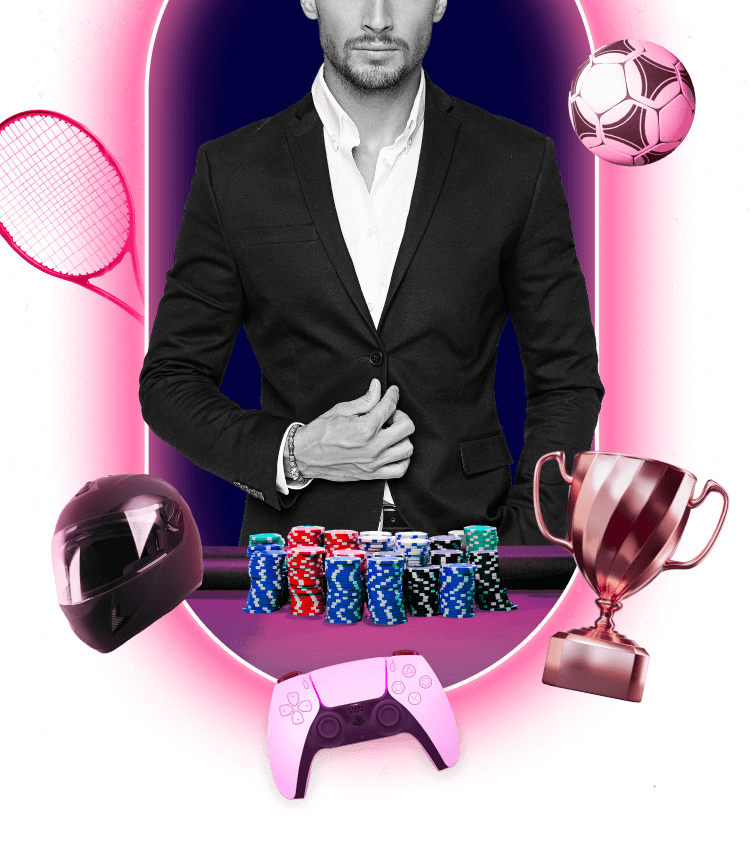
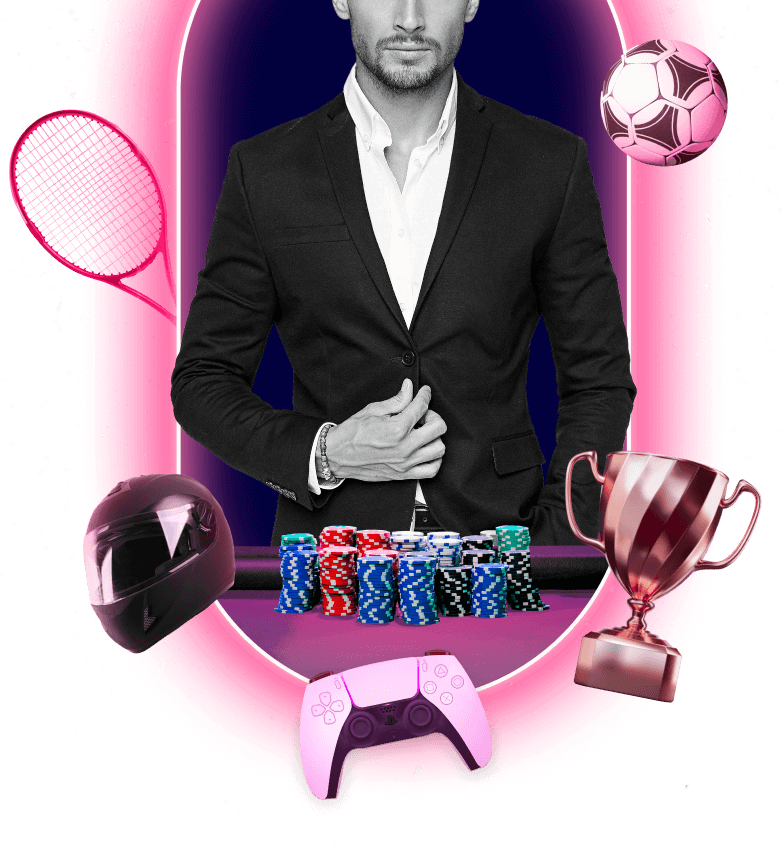
add new welcome image

Changed region(s): [[0.0, 0.0, 0.9813, 0.9343]]

diff --git a/build/css/main.css b/build/css/main.css
@@ -1,1 +1,1 @@
-@font-face{font-family:SuisseIntl-Medium;src:url(../fonts/SuisseIntl/SuisseIntl-Medium.woff);font-weight:500}@font-face{font-family:SuisseIntl-SemiBold;src:url(../fonts/SuisseIntl/SuisseIntl-SemiBold.woff);font-weight:600}@font-face{font-family:SuisseIntl-Bold;src:url(../fonts/SuisseIntl/SuisseIntl-Bold.woff);font-weight:700}@font-face{font-family:WulkanDisplay;src:url(../fonts/WulkanDisplay/WulkanDisplay-SemiBoldItalic.woff)}html{height:100%}body{margin:0;height:100%}a{text-decoration:none}ul{list-style:none}h1,h2,h3,li,p,ul{padding:0;margin:0}*{-webkit-box-sizing:border-box;box-sizing:border-box}.overflow{overflow-x:hidden!important}body{background:#00003d}body img{max-width:100%;height:auto}.fav__page{background:#00003d;-webkit-tap-highlight-color:transparent}.fav__page.overflow{overflow:hidden}.welcome{overflow:hidden;background:#00003d url(../img/bg-welcom-desc.jpg) no-repeat center/100% 100%}@media screen and (max-width:1024px){.welcome{background:#00003d url(../img/bg-welcom-tab.jpg) no-repeat center/100% 100%}}@media screen and (max-width:550px){.welcome{background:#00003d url(../img/bg-welcom-mob.jpg) no-repeat center/100% 100%}}.welcome__cloud{display:block;pointer-events:none;content:"";overflow-x:hidden;position:absolute;width:1000%;left:-900%;background:url(../img/cloud-top.png) repeat-x top/contain;top:0;height:60px;-webkit-animation:500s infinite ease animCloud;animation:500s infinite ease animCloud}@media screen and (max-width:700px){.welcome__cloud{-webkit-animation:none;animation:none}}.welcome__container{max-width:1305px;margin:0 auto;padding:0}.welcome__row{display:-webkit-box;display:-ms-flexbox;display:flex;-webkit-box-align:start;-ms-flex-align:start;align-items:flex-start;-webkit-box-pack:justify;-ms-flex-pack:justify;justify-content:space-between}.welcome__info{padding:270px 0 0 0;margin:0 20px 0 0;position:relative;left:40px;min-width:390px}.welcome__title{position:absolute;top:50px;left:0;font-family:SuisseIntl-SemiBold,sans-serif;max-width:560px;min-width:560px;text-transform:uppercase;margin:0 0 30px 0;color:#ededed;font-size:84px;line-height:94px}.welcome__title span{font-family:WulkanDisplay,sans-serif;color:#ff267e}.welcome__subtitle{font-family:SuisseIntl-SemiBold,sans-serif;color:#ff267e;font-size:40px;line-height:45px;margin:0 0 10px 0;letter-spacing:.02em;text-transform:uppercase}.welcome__text{font-family:SuisseIntl-Medium,sans-serif;color:#e8e8e8;max-width:415px;font-size:14px;line-height:28px;letter-spacing:.01em;margin:0 0 30px 0}.welcome__link{display:inline-block;font-family:SuisseIntl-Medium,sans-serif;color:#00003d;font-size:20px;line-height:24px;padding:19px 95px 17px;border-radius:4px;text-transform:uppercase;background:#05c489;-webkit-transition:background-color .3s ease;-o-transition:background-color .3s ease;transition:background-color .3s ease}.welcome__link:hover{background:#05b37c}.welcome__image{max-width:880px;position:relative;right:-140px}.prize{margin-top:-40px;padding:10px 0 60px;background:#00003d;position:relative;z-index:3}.prize__container{max-width:1305px;margin:0 auto;padding:0}.prize__title{position:relative;left:40px;font-family:WulkanDisplay,sans-serif;color:#ff267e;font-size:60px;line-height:77px;letter-spacing:.02em;text-transform:uppercase;margin:0 0 10px 0}.prize__list{max-width:1160px;padding:0 15px;display:-webkit-box;display:-ms-flexbox;display:flex;position:relative;-webkit-box-pack:justify;-ms-flex-pack:justify;justify-content:space-between;margin:0 auto 55px auto}.prize__item{position:relative}.prize__item::before{content:"";position:absolute;top:0;left:50%;-webkit-transform:translateX(-50%);-ms-transform:translateX(-50%);transform:translateX(-50%);width:520px;height:220px;z-index:0;background:url(../img/prize-back.png) no-repeat 0 0/contain}.prize__item:nth-child(1) .prize__item-wrap::after{content:"";position:absolute;z-index:4;width:129px;height:93px;background:url(../img/prize1.png) no-repeat 0 0/contain;top:60px;right:-10px}.prize__item:nth-child(2) .prize__item-wrap::after{content:"";position:absolute;z-index:4;width:82px;height:82px;background:url(../img/prize2.png) no-repeat 0 0/contain;top:50px;right:30px}.prize__item:nth-child(3) .prize__item-wrap::after{content:"";position:absolute;z-index:4;width:130px;height:120px;background:url(../img/prize3.png) no-repeat 0 0/contain;top:78px;right:-10px}.prize__item-wrap{position:relative;z-index:3;display:-webkit-box;display:-ms-flexbox;display:flex;-webkit-box-align:center;-ms-flex-align:center;align-items:center;-webkit-box-pack:center;-ms-flex-pack:center;justify-content:center;min-width:268px;margin:0 0 20px 0;height:220px;background:url(../img/prize-bg.png) no-repeat 0 0/contain}.prize__item-number{margin-top:80px;margin-left:-30px;font-family:WulkanDisplay,sans-serif;font-style:normal;font-size:80px;line-height:93px;color:#ededed}.prize__item-text{font-family:SuisseIntl-SemiBold,sans-serif;font-size:20px;line-height:26px;color:#e8e8e8;letter-spacing:.04em;text-transform:uppercase;max-width:300px;text-align:center;margin:0 auto}.prize__drop{max-width:900px;width:calc(100% - 80px);margin:0 auto 0;border:none;cursor:pointer;outline:0!important;background:#33084a;position:relative;border-radius:4px;text-align:left}.prize__drop:after,.prize__drop:before{content:"";background:#ff267e;width:4px;height:18px;display:block;position:absolute;top:32px}.prize__drop[open]:before{-webkit-transform:rotate(-45deg);-ms-transform:rotate(-45deg);transform:rotate(-45deg)}.prize__drop[open]:after{-webkit-transform:rotate(45deg);-ms-transform:rotate(45deg);transform:rotate(45deg)}.prize__drop:before{right:33px;-webkit-transform:rotate(45deg);-ms-transform:rotate(45deg);transform:rotate(45deg)}.prize__drop:after{-webkit-transform:rotate(-45deg);-ms-transform:rotate(-45deg);transform:rotate(-45deg);right:43px}.prize__drop-title{font-family:SuisseIntl-Medium,sans-serif;font-size:24px;line-height:24px;color:#ededed;text-transform:uppercase;letter-spacing:.02em;padding:27px 26px 25px;position:relative}.prize__drop summary::-webkit-details-marker{display:none}.prize__drop>summary{list-style:none}.prize__drop-txt{font-family:SuisseIntl-Medium,sans-serif;font-size:14px;line-height:28px;color:#ededed;letter-spacing:.02em;padding:30px;background:#33084a;border-top:1px solid #ff267e}.prize__drop-txt span{display:block;padding-left:15px}.prize__drop-txt .retreat1{padding-left:30px}.tableResults__drop{max-width:900px;width:calc(100% - 80px);margin:0 auto 0;background:#33084a;cursor:pointer;outline:0!important;position:relative;border-radius:4px;text-align:left}.tableResults__drop:after,.tableResults__drop:before{content:"";background:#ff267e;width:4px;height:18px;display:block;position:absolute;top:32px}.tableResults__drop[open]:before{-webkit-transform:rotate(-45deg);-ms-transform:rotate(-45deg);transform:rotate(-45deg)}.tableResults__drop[open]:after{-webkit-transform:rotate(45deg);-ms-transform:rotate(45deg);transform:rotate(45deg)}.tableResults__drop:before{right:33px;-webkit-transform:rotate(45deg);-ms-transform:rotate(45deg);transform:rotate(45deg)}.tableResults__drop:after{-webkit-transform:rotate(-45deg);-ms-transform:rotate(-45deg);transform:rotate(-45deg);right:43px}.tableResults__drop-title{font-family:SuisseIntl-Medium,sans-serif;font-size:24px;line-height:24px;color:#ededed;text-transform:uppercase;letter-spacing:.02em;padding:27px 26px 25px;position:relative}.tableResults__drop summary::-webkit-details-marker{display:none}.tableResults__drop>summary{list-style:none}.tableResults__drop-txt{font-family:SuisseIntl-Medium,sans-serif;font-size:14px;line-height:28px;color:#ededed;letter-spacing:.02em;padding:30px;background:#33084a;border-top:1px solid #ff267e}.tableResults__drop-txt p{font-family:SuisseIntl-Medium,sans-serif;font-size:14px;line-height:28px}.tableResults__drop-txt span{display:block;padding-left:15px}.tableResults__drop-txt .retreat1{padding-left:30px}.tableResults{background:#00003d;text-align:center;position:relative;z-index:3}.tableResults::before{pointer-events:none;content:"";position:absolute;width:100vw;min-height:180%;left:0;z-index:0;top:-42%;background:url(../img/bg-table-desc.svg) no-repeat center/cover}@media screen and (max-width:1024px){.tableResults::before{background:url(../img/bg-table-table.svg) no-repeat center/cover;top:-4%;min-height:40%}}.tableResults__container{max-width:1305px;margin:0 auto;padding:0}.tableResults__title{position:relative;z-index:3;font-family:SuisseIntl-Bold,sans-serif;font-size:50px;line-height:50px;color:#ededed;text-transform:uppercase;text-align:center;letter-spacing:.01em;margin:0 0 30px 0}.tableResults__wrap{margin:0 auto 40px auto;max-width:1004px;padding:0 15px;text-align:left;position:relative}.tableResults__head{background:#00003d;border:2px solid #ff267e;-webkit-box-shadow:0 0 30px #ff267e,inset 0 0 30px #ff267e;box-shadow:0 0 30px #ff267e,inset 0 0 30px #ff267e;border-radius:4px;margin-right:10px;margin-bottom:25px;position:relative}.tableResults__head-list{display:-webkit-box;display:-ms-flexbox;display:flex}.tableResults__head-col{font-family:SuisseIntl-SemiBold,sans-serif;font-size:20px;line-height:20px;color:#ededed;text-transform:uppercase;letter-spacing:.04em;padding:20px 20px 17px 35px}.tableResults__head-col:nth-child(1){width:19%;padding:20px 20px 17px 24px}.tableResults__head-col:nth-child(2){width:25%;padding:20px 20px 17px 24px}.tableResults__head-col:nth-child(3){width:21%}.tableResults__head-col:nth-child(4){width:47%}.tableResults__body{overflow-y:scroll;padding-right:6px;position:relative;max-height:495px;font-size:18px;background:0 0}.tableResults__body::-webkit-scrollbar{width:4px;height:80%;background:rgba(51,8,60,.5)}.tableResults__body::-webkit-scrollbar-thumb{background-color:#ff267e;width:4px}.tableResults__body-col{font-family:SuisseIntl-SemiBold,sans-serif;width:25%;margin-right:8px;letter-spacing:.04em;display:-webkit-box;display:-ms-flexbox;display:flex;-webkit-box-align:center;-ms-flex-align:center;align-items:center;padding:22px 20px 18px 24px;background:#33084a;color:#ededed;text-align:start}.tableResults__body-col span{font-family:SuisseIntl-SemiBold,sans-serif}.tableResults__body-col:nth-child(1){width:19%;padding:22px 20px 18px 24px}.tableResults__body-col:nth-child(2){width:25%}.tableResults__body-col:nth-child(3){width:20%}.tableResults__body-col:nth-child(4){width:46%;margin-right:0}.tableResults__row{word-break:break-all;display:-webkit-box;display:-ms-flexbox;display:flex;margin-bottom:8px}.tableResults__row:last-child{margin-bottom:0}.tableResults .place1 .tableResults__body-col:nth-child(1):after,.tableResults .place2 .tableResults__body-col:nth-child(1):after,.tableResults .place3 .tableResults__body-col:nth-child(1):after{content:"";width:31px;height:24px;display:inline-block;margin:-4px 0 0 14px}.tableResults .place1 .tableResults__body-col:nth-child(1):after{background:url(../img/place-icon-1.svg) no-repeat 0 0/contain}.tableResults .place2 .tableResults__body-col:nth-child(1):after{background:url(../img/place-icon-2.svg) no-repeat 0 0/contain}.tableResults .place3 .tableResults__body-col:nth-child(1):after{background:url(../img/place-icon-3.svg) no-repeat 0 0/contain}.tableResults__drop{display:inline-block;vertical-align:middle}.footer{padding:123px 0 90px;background:url(../img/bg-footer.jpg) no-repeat 50% 0/cover;position:relative}.footer::after{content:"";position:absolute;z-index:0;width:530px;height:450px;left:-15px;bottom:0;background:url(../img/left-footer.png) no-repeat center/contain}.footer::before{content:"";position:absolute;z-index:0;width:530px;height:450px;right:-15px;bottom:0;background:url(../img/right-footer.png) no-repeat center/contain}.footer__cloud{position:absolute;width:1000%;height:90px;bottom:0;left:-900%;background:url(../img/cloud-desc.png) repeat-x bottom/contain;-webkit-animation:500s infinite ease animCloud;animation:500s infinite ease animCloud}@media screen and (max-width:1024px){.footer__cloud{background:url(../img/cloud-tab.png) repeat-x bottom/contain}}@media screen and (max-width:550px){.footer__cloud{background:0 0;display:none}}.footer__container{max-width:660px;padding:0 15px;margin:0 auto}.footer__row{position:relative;z-index:3;display:-webkit-box;display:-ms-flexbox;display:flex;-webkit-box-orient:vertical;-webkit-box-direction:normal;-ms-flex-direction:column;flex-direction:column;-webkit-box-align:center;-ms-flex-align:center;align-items:center}.footer__title{font-family:SuisseIntl-SemiBold,sans-serif;text-align:center;color:#ededed;font-size:60px;line-height:77px;text-transform:uppercase;margin:0 0 15px 0}.footer__title span{font-family:WulkanDisplay,sans-serif;color:#ff267e}.footer__text{font-family:SuisseIntl-Medium,sans-serif;text-align:center;font-size:14px;line-height:28px;color:#e8e8e8;margin:0 0 30px 0}.footer__link{display:inline-block;font-family:SuisseIntl-Medium,sans-serif;color:#00003d;font-size:20px;line-height:24px;padding:19px 95px 17px;border-radius:4px;text-transform:uppercase;background:#05c489;-webkit-transition:background-color .3s ease;-o-transition:background-color .3s ease;transition:background-color .3s ease}.footer__link:hover{background:#05b37c}@-webkit-keyframes animCloud{0%{background-position:0 0}100%{background-position:100% 0}}@keyframes animCloud{0%{background-position:0 0}100%{background-position:100% 0}}@media screen and (max-width:1270px){.welcome__image{right:-180px;min-width:66%}.welcome__info{min-width:390px}}@media screen and (max-width:1150px){.welcome__image{right:-120px;min-width:66%}.welcome__title{font-size:64px;line-height:74px;max-width:273px;min-width:376px}.welcome__info{padding:227px 0 0 0}}@media screen and (max-width:1050px){.welcome__image{right:-54px;min-width:66%}}@media screen and (max-width:1024px){.welcome__title{font-size:60px;line-height:70px;margin:0 0 25px 0;-webkit-box-ordinal-group:2;-ms-flex-order:1;order:1;max-width:272px;min-width:272px}.welcome__link{-webkit-box-ordinal-group:3;-ms-flex-order:2;order:2;margin:0 0 30px 0;-ms-flex-item-align:start;align-self:flex-start}.welcome__subtitle{-webkit-box-ordinal-group:4;-ms-flex-order:3;order:3;font-size:30px;line-height:30px;margin:0 0 8px 0}.welcome__text{-webkit-box-ordinal-group:5;-ms-flex-order:4;order:4;margin:0}.welcome__image{min-width:62%;right:20px}.welcome__info{padding:276px 0 0 0;min-width:327px;display:-webkit-box;display:-ms-flexbox;display:flex;-webkit-box-orient:vertical;-webkit-box-direction:normal;-ms-flex-direction:column;flex-direction:column}}@media screen and (max-width:890px){.welcome__image{min-width:62%;right:30px}}@media screen and (max-width:790px){.welcome__info{left:20px;min-width:354px}.welcome__image{min-width:62%;right:80px}}@media screen and (max-width:700px){.welcome__row{-webkit-box-orient:vertical;-webkit-box-direction:reverse;-ms-flex-direction:column-reverse;flex-direction:column-reverse}.welcome__image{min-width:auto;right:23px}.welcome__info{padding:0;margin-top:-47px;z-index:3;left:0;min-width:auto;width:100%;max-width:100%}.welcome__title{position:static;padding:0 15px;max-width:515px;text-align:center;margin:0 auto 30px auto}.welcome__subtitle{text-align:center;font-size:32px;padding:0 15px;line-height:40px;margin:0 auto 10px auto}.welcome__link{font-size:20px;line-height:24px;margin:0 auto 25px auto;width:70%;padding:19px 15px 17px;text-align:center}.welcome__text{padding:0 15px;max-width:515px;text-align:center;margin:0 auto 0 auto}}@media screen and (max-width:550px){.welcome::before{content:"";position:absolute;width:100%;height:1100px;background:url(../img/blur-mob.png) no-repeat center/100% 100%;z-index:10}.welcome__image{right:0;position:relative;z-index:12}.welcome__info{margin-top:-30px;position:relative;z-index:12}.welcome__title{max-width:390px;font-size:42px;line-height:50px;margin:0 auto 7px auto}}@media screen and (max-width:430px){.welcome__link{width:calc(100% - 30px)}}@media screen and (max-width:1180px){.prize{margin-top:0}.prize__list{left:0;display:grid;grid-template-columns:auto auto;justify-items:center;-webkit-box-pack:center;-ms-flex-pack:center;justify-content:center;-webkit-box-align:center;-ms-flex-align:center;align-items:center;-webkit-column-gap:120px;-moz-column-gap:120px;column-gap:120px;row-gap:60px}.prize__item{display:-webkit-box;display:-ms-flexbox;display:flex;-webkit-box-orient:vertical;-webkit-box-direction:normal;-ms-flex-direction:column;flex-direction:column;-webkit-box-pack:center;-ms-flex-pack:center;justify-content:center;-webkit-box-align:center;-ms-flex-align:center;align-items:center}.prize__item-number{margin-left:0}.prize__item:nth-child(1){grid-column:1/2;grid-row:1/2}.prize__item:nth-child(1) .prize__item-wrap::after{right:-40px}.prize__item:nth-child(2){grid-column:2/3;grid-row:1/2}.prize__item:nth-child(2) .prize__item-wrap::after{right:5px;width:73px;top:74px}.prize__item:nth-child(3){grid-column:1/3;grid-row:2/3}.prize__item:nth-child(3) .prize__item-wrap::after{top:53px;right:-27px;width:118px;height:110px}}@media screen and (max-width:1024px){.prize__title{font-size:40px;line-height:60px;margin:0 0 5px 0}}@media screen and (max-width:830px){.prize{padding:40px 0 60px}}@media screen and (max-width:790px){.prize__title{left:20px}}@media screen and (max-width:700px){.prize{padding:35px 0 60px}.prize__drop{width:calc(100% - 30px)}.prize__drop:after,.prize__drop:before{width:2px;height:12px;top:23px}.prize__drop:before{right:18px}.prize__drop:after{right:26px}.prize__drop-title{font-size:18px;line-height:18px;padding:20px 20px 18px}.prize__drop-title:after{right:45px}.prize__drop-txt{padding:20px}.prize__title{left:0;padding:0 15px;text-align:center;margin:0}.prize__list{-webkit-column-gap:0;-moz-column-gap:0;column-gap:0;row-gap:10px;grid-template-columns:100%}.prize__item:nth-child(1){grid-column:1/2;grid-row:1/2}.prize__item:nth-child(2){grid-column:1/2;grid-row:2/3}.prize__item:nth-child(3){grid-column:1/2;grid-row:3/4}}@media screen and (max-width:940px){.tableResults__title{font-size:36px;line-height:36px}.tableResults__head{-webkit-box-shadow:0 0 20px #ff267e,inset 0 0 20px #ff267e;box-shadow:0 0 20px #ff267e,inset 0 0 20px #ff267e;margin-bottom:10px}.tableResults__head-col{font-size:16px;line-height:16px;padding:14px 20px 12px 35px}.tableResults__head-col:nth-child(1){padding:14px 20px 12px 18px}.tableResults__head-col:nth-child(2){padding:14px 20px 12px 26px}.tableResults__body{font-size:16px;max-height:444px}.tableResults .place1 .tableResults__body-col:nth-child(1):after,.tableResults .place2 .tableResults__body-col:nth-child(1):after,.tableResults .place3 .tableResults__body-col:nth-child(1):after{width:26px;height:20px;margin:-3px 0 0 10px}}@media screen and (max-width:700px){.tableResults__drop{width:calc(100% - 30px)}.tableResults__drop:after,.tableResults__drop:before{width:2px;height:12px;top:23px}.tableResults__drop:before{right:18px}.tableResults__drop:after{right:26px}.tableResults__drop-title{font-size:18px;line-height:18px;padding:20px 20px 18px}.tableResults__drop-title:after{right:45px}.tableResults__drop-txt{padding:20px}.tableResults__head{margin-right:0;margin-bottom:5px;-webkit-box-shadow:0 0 10px #ff267e,inset 0 0 10px #ff267e;box-shadow:0 0 10px #ff267e,inset 0 0 10px #ff267e}.tableResults__head-col{font-size:12px;line-height:12px}.tableResults__head-col:nth-child(1){padding:11px 20px 9px 15px;width:20%}.tableResults__head-col:nth-child(2){padding:11px 20px 9px 10px;width:28%}.tableResults__head-col:nth-child(3){padding:11px 20px 9px 7px;width:22%}.tableResults__head-col:nth-child(4){padding:11px 20px 9px 10px;width:30%}.tableResults__body{font-size:11px;padding-right:0}.tableResults__body::-webkit-scrollbar{background:#33083c}.tableResults__body-col{font-family:SuisseIntl-Bold,sans-serif;margin-right:2px;padding:12px 5px 8px 10px}.tableResults__body-col:nth-child(1){width:20%;padding:12px 5px 8px 20px}.tableResults__body-col:nth-child(2){width:28%;padding:12px 5px 8px 10px}.tableResults__body-col:nth-child(3){width:22%}.tableResults__body-col:nth-child(4){width:30%}.tableResults__row{margin-bottom:2px}.tableResults .place1 .tableResults__body-col:nth-child(1):after,.tableResults .place2 .tableResults__body-col:nth-child(1):after,.tableResults .place3 .tableResults__body-col:nth-child(1):after{width:18px;height:14px;margin:-4px 0 0 6px}}@media screen and (max-width:374px){.tableResults__drop:after,.tableResults__drop:before{top:21px}.tableResults__drop-title{font-size:16px;line-height:16px;padding:18px 15px 16px}.tableResults__title{font-size:30px;line-height:30px}.tableResults__wrap{margin-top:20px}}@media screen and (max-width:1230px){.footer{padding:410px 0 70px;background:url(../img/bg-footer-tab.jpg) no-repeat center/100% 100%}.footer::after,.footer::before{content:none;background:0 0}.footer::before{content:"";left:50%;right:auto;bottom:auto;width:715px;height:372px;top:20px;z-index:1;-webkit-transform:translateX(-50%);-ms-transform:translateX(-50%);transform:translateX(-50%);background:url(../img/footer-center.png) no-repeat center/contain}.footer::after{content:"";left:50%;right:auto;bottom:auto;width:100%;height:100%;top:-170px;z-index:0;-webkit-transform:translateX(-50%);-ms-transform:translateX(-50%);transform:translateX(-50%);background:url(../img/touch-footer.svg) no-repeat center/contain}}@media screen and (max-width:1024px){.footer__title{font-size:50px;line-height:60px;margin:0 0 10px 0}}@media screen and (max-width:720px){.footer{padding:360px 0 70px}.footer::before{width:100%;top:-10px}}@media screen and (max-width:550px){.footer{padding:307px 0 30px;background:url(../img/bg-footer-mob.jpg) no-repeat center/100% 100%}.footer::before{width:100%;top:-30px}.footer::after{content:"";left:50%;right:auto;bottom:auto;width:100%;height:320px;top:10px;z-index:0;-webkit-transform:translateX(-50%);-ms-transform:translateX(-50%);transform:translateX(-50%);background:url(../img/touch-mob.png) no-repeat center/contain}.footer__title{font-size:42px;line-height:50px;-webkit-box-ordinal-group:2;-ms-flex-order:1;order:1}.footer__link{-webkit-box-ordinal-group:3;-ms-flex-order:2;order:2;width:100%;padding:19px 15px 17px;text-align:center;margin:0 0 25px 0}.footer__text{-webkit-box-ordinal-group:4;-ms-flex-order:3;order:3;margin:0}}@media screen and (max-width:466px){.footer{padding:253px 0 30px}.footer::before{top:-60px}.footer::after{top:-20px}}@media screen and (max-width:406px){.footer{padding:215px 0 30px}.footer::before{top:-80px}.footer::after{top:-40px}}@media screen and (max-width:365px){.footer{padding:193px 0 30px}.footer::before{top:-90px}.footer::after{top:-50px}}
+@font-face{font-family:SuisseIntl-Medium;src:url(../fonts/SuisseIntl/SuisseIntl-Medium.woff);font-weight:500}@font-face{font-family:SuisseIntl-SemiBold;src:url(../fonts/SuisseIntl/SuisseIntl-SemiBold.woff);font-weight:600}@font-face{font-family:SuisseIntl-Bold;src:url(../fonts/SuisseIntl/SuisseIntl-Bold.woff);font-weight:700}@font-face{font-family:WulkanDisplay;src:url(../fonts/WulkanDisplay/WulkanDisplay-SemiBoldItalic.woff)}html{height:100%}body{margin:0;height:100%}a{text-decoration:none}ul{list-style:none}h1,h2,h3,li,p,ul{padding:0;margin:0}*{-webkit-box-sizing:border-box;box-sizing:border-box}.overflow{overflow-x:hidden!important}body{background:#00003d}body img{max-width:100%;height:auto}.fav__page{background:#00003d;-webkit-tap-highlight-color:transparent}.fav__page.overflow{overflow:hidden}.welcome{overflow:hidden;background:#00003d url(../img/bg-welcom-desc.jpg) no-repeat center/100% 100%}@media screen and (max-width:1024px){.welcome{background:#00003d url(../img/bg-welcom-tab.jpg) no-repeat center/100% 100%}}@media screen and (max-width:550px){.welcome{background:#00003d url(../img/bg-welcom-mob.jpg) no-repeat center/100% 100%}}.welcome__cloud{display:block;pointer-events:none;content:"";overflow-x:hidden;position:absolute;width:1000%;left:-900%;background:url(../img/cloud-top.png) repeat-x top/contain;top:0;height:60px;-webkit-animation:500s infinite ease animCloud;animation:500s infinite ease animCloud}@media screen and (max-width:700px){.welcome__cloud{-webkit-animation:none;animation:none}}.welcome__container{max-width:1305px;margin:0 auto;padding:0}.welcome__row{display:-webkit-box;display:-ms-flexbox;display:flex;-webkit-box-align:start;-ms-flex-align:start;align-items:flex-start;-webkit-box-pack:justify;-ms-flex-pack:justify;justify-content:space-between}.welcome__info{padding:270px 0 0 0;margin:0 20px 0 0;position:relative;left:40px;min-width:390px}.welcome__title{position:absolute;top:50px;left:0;font-family:SuisseIntl-SemiBold,sans-serif;max-width:560px;min-width:560px;text-transform:uppercase;margin:0 0 30px 0;color:#ededed;font-size:84px;line-height:94px}.welcome__title span{font-family:WulkanDisplay,sans-serif;color:#ff267e}.welcome__subtitle{font-family:SuisseIntl-SemiBold,sans-serif;color:#ff267e;font-size:40px;line-height:45px;margin:0 0 10px 0;letter-spacing:.02em;text-transform:uppercase}.welcome__text{font-family:SuisseIntl-Medium,sans-serif;color:#e8e8e8;max-width:415px;font-size:14px;line-height:28px;letter-spacing:.01em;margin:0 0 30px 0}.welcome__link{display:inline-block;font-family:SuisseIntl-Medium,sans-serif;color:#00003d;font-size:20px;line-height:24px;padding:19px 95px 17px;border-radius:4px;text-transform:uppercase;background:#05c489;-webkit-transition:background-color .3s ease;-o-transition:background-color .3s ease;transition:background-color .3s ease}.welcome__link:hover{background:#05b37c}.welcome__image{max-width:880px;position:relative;right:-140px}.prize{margin-top:-40px;padding:10px 0 60px;background:#00003d;position:relative;z-index:3}.prize__container{max-width:1305px;margin:0 auto;padding:0}.prize__title{position:relative;left:40px;font-family:WulkanDisplay,sans-serif;color:#ff267e;font-size:60px;line-height:77px;letter-spacing:.02em;text-transform:uppercase;margin:0 0 10px 0}.prize__list{max-width:1160px;padding:0 15px;display:-webkit-box;display:-ms-flexbox;display:flex;position:relative;-webkit-box-pack:justify;-ms-flex-pack:justify;justify-content:space-between;margin:0 auto 55px auto}.prize__item{position:relative}.prize__item::before{content:"";position:absolute;top:0;left:50%;-webkit-transform:translateX(-50%);-ms-transform:translateX(-50%);transform:translateX(-50%);width:520px;height:220px;z-index:0;background:url(../img/prize-back.png) no-repeat 0 0/contain}.prize__item:nth-child(1) .prize__item-wrap::after{content:"";position:absolute;z-index:4;width:129px;height:93px;background:url(../img/prize1.png) no-repeat 0 0/contain;top:60px;right:-10px}.prize__item:nth-child(2) .prize__item-wrap::after{content:"";position:absolute;z-index:4;width:82px;height:82px;background:url(../img/prize2.png) no-repeat 0 0/contain;top:50px;right:30px}.prize__item:nth-child(3) .prize__item-wrap::after{content:"";position:absolute;z-index:4;width:130px;height:120px;background:url(../img/prize3.png) no-repeat 0 0/contain;top:78px;right:-10px}.prize__item-wrap{position:relative;z-index:3;display:-webkit-box;display:-ms-flexbox;display:flex;-webkit-box-align:center;-ms-flex-align:center;align-items:center;-webkit-box-pack:center;-ms-flex-pack:center;justify-content:center;min-width:268px;margin:0 0 20px 0;height:220px;background:url(../img/prize-bg.png) no-repeat 0 0/contain}.prize__item-number{margin-top:80px;margin-left:-30px;font-family:WulkanDisplay,sans-serif;font-style:normal;font-size:80px;line-height:93px;color:#ededed}.prize__item-text{font-family:SuisseIntl-SemiBold,sans-serif;font-size:20px;line-height:26px;color:#e8e8e8;letter-spacing:.04em;text-transform:uppercase;max-width:300px;text-align:center;margin:0 auto}.prize__drop{max-width:900px;width:calc(100% - 80px);margin:0 auto 0;border:none;cursor:pointer;outline:0!important;background:#33084a;position:relative;border-radius:4px;text-align:left}.prize__drop:after,.prize__drop:before{content:"";background:#ff267e;width:4px;height:18px;display:block;position:absolute;top:32px}.prize__drop[open]:before{-webkit-transform:rotate(-45deg);-ms-transform:rotate(-45deg);transform:rotate(-45deg)}.prize__drop[open]:after{-webkit-transform:rotate(45deg);-ms-transform:rotate(45deg);transform:rotate(45deg)}.prize__drop:before{right:33px;-webkit-transform:rotate(45deg);-ms-transform:rotate(45deg);transform:rotate(45deg)}.prize__drop:after{-webkit-transform:rotate(-45deg);-ms-transform:rotate(-45deg);transform:rotate(-45deg);right:43px}.prize__drop-title{font-family:SuisseIntl-Medium,sans-serif;font-size:24px;line-height:24px;color:#ededed;text-transform:uppercase;letter-spacing:.02em;padding:27px 26px 25px;position:relative}.prize__drop summary::-webkit-details-marker{display:none}.prize__drop>summary{list-style:none}.prize__drop-txt{font-family:SuisseIntl-Medium,sans-serif;font-size:14px;line-height:28px;color:#ededed;letter-spacing:.02em;padding:30px;background:#33084a;border-top:1px solid #ff267e}.prize__drop-txt span{display:block;padding-left:15px}.prize__drop-txt .retreat1{padding-left:30px}.tableResults__drop{max-width:900px;width:calc(100% - 80px);margin:0 auto 0;background:#33084a;cursor:pointer;outline:0!important;position:relative;border-radius:4px;text-align:left}.tableResults__drop:after,.tableResults__drop:before{content:"";background:#ff267e;width:4px;height:18px;display:block;position:absolute;top:32px}.tableResults__drop[open]:before{-webkit-transform:rotate(-45deg);-ms-transform:rotate(-45deg);transform:rotate(-45deg)}.tableResults__drop[open]:after{-webkit-transform:rotate(45deg);-ms-transform:rotate(45deg);transform:rotate(45deg)}.tableResults__drop:before{right:33px;-webkit-transform:rotate(45deg);-ms-transform:rotate(45deg);transform:rotate(45deg)}.tableResults__drop:after{-webkit-transform:rotate(-45deg);-ms-transform:rotate(-45deg);transform:rotate(-45deg);right:43px}.tableResults__drop-title{font-family:SuisseIntl-Medium,sans-serif;font-size:24px;line-height:24px;color:#ededed;text-transform:uppercase;letter-spacing:.02em;padding:27px 26px 25px;position:relative}.tableResults__drop summary::-webkit-details-marker{display:none}.tableResults__drop>summary{list-style:none}.tableResults__drop-txt{font-family:SuisseIntl-Medium,sans-serif;font-size:14px;line-height:28px;color:#ededed;letter-spacing:.02em;padding:30px;background:#33084a;border-top:1px solid #ff267e}.tableResults__drop-txt p{font-family:SuisseIntl-Medium,sans-serif;font-size:14px;line-height:28px}.tableResults__drop-txt span{display:block;padding-left:15px}.tableResults__drop-txt .retreat1{padding-left:30px}.tableResults{background:#00003d;text-align:center;position:relative;z-index:3}.tableResults::before{pointer-events:none;content:"";position:absolute;width:100vw;min-height:180%;left:0;z-index:0;top:-42%;background:url(../img/bg-table-desc.svg) no-repeat center/cover}@media screen and (max-width:1024px){.tableResults::before{background:url(../img/bg-table-table.svg) no-repeat center/cover;top:-4%;min-height:40%}}.tableResults__container{max-width:1305px;margin:0 auto;padding:0}.tableResults__title{position:relative;z-index:3;font-family:SuisseIntl-Bold,sans-serif;font-size:50px;line-height:50px;color:#ededed;text-transform:uppercase;text-align:center;letter-spacing:.01em;margin:0 0 30px 0}.tableResults__wrap{margin:0 auto 40px auto;max-width:1004px;padding:0 15px;text-align:left;position:relative}.tableResults__head{background:#00003d;border:2px solid #ff267e;-webkit-box-shadow:0 0 30px #ff267e,inset 0 0 30px #ff267e;box-shadow:0 0 30px #ff267e,inset 0 0 30px #ff267e;border-radius:4px;margin-right:10px;margin-bottom:25px;position:relative}.tableResults__head-list{display:-webkit-box;display:-ms-flexbox;display:flex}.tableResults__head-col{font-family:SuisseIntl-SemiBold,sans-serif;font-size:20px;line-height:20px;color:#ededed;text-transform:uppercase;letter-spacing:.04em;padding:20px 20px 17px 35px}.tableResults__head-col:nth-child(1){width:19%;padding:20px 20px 17px 24px}.tableResults__head-col:nth-child(2){width:25%;padding:20px 20px 17px 24px}.tableResults__head-col:nth-child(3){width:21%}.tableResults__head-col:nth-child(4){width:47%}.tableResults__body{overflow-y:scroll;padding-right:6px;position:relative;max-height:495px;font-size:18px;background:0 0}.tableResults__body::-webkit-scrollbar{width:4px;height:80%;background:rgba(51,8,60,.5)}.tableResults__body::-webkit-scrollbar-thumb{background-color:#ff267e;width:4px}.tableResults__body-col{font-family:SuisseIntl-SemiBold,sans-serif;width:25%;margin-right:8px;letter-spacing:.04em;display:-webkit-box;display:-ms-flexbox;display:flex;-webkit-box-align:center;-ms-flex-align:center;align-items:center;padding:22px 20px 18px 24px;background:#33084a;color:#ededed;text-align:start}.tableResults__body-col span{font-family:SuisseIntl-SemiBold,sans-serif}.tableResults__body-col:nth-child(1){width:19%;padding:22px 20px 18px 24px}.tableResults__body-col:nth-child(2){width:25%}.tableResults__body-col:nth-child(3){width:20%}.tableResults__body-col:nth-child(4){width:46%;margin-right:0}.tableResults__row{word-break:break-all;display:-webkit-box;display:-ms-flexbox;display:flex;margin-bottom:8px}.tableResults__row:last-child{margin-bottom:0}.tableResults .place1 .tableResults__body-col:nth-child(1):after,.tableResults .place2 .tableResults__body-col:nth-child(1):after,.tableResults .place3 .tableResults__body-col:nth-child(1):after{content:"";width:31px;height:24px;display:inline-block;margin:-4px 0 0 14px}.tableResults .place1 .tableResults__body-col:nth-child(1):after{background:url(../img/place-icon-1.svg) no-repeat 0 0/contain}.tableResults .place2 .tableResults__body-col:nth-child(1):after{background:url(../img/place-icon-2.svg) no-repeat 0 0/contain}.tableResults .place3 .tableResults__body-col:nth-child(1):after{background:url(../img/place-icon-3.svg) no-repeat 0 0/contain}.tableResults__drop{display:inline-block;vertical-align:middle}.footer{padding:123px 0 90px;background:url(../img/bg-footer.jpg) no-repeat 50% 0/cover;position:relative}.footer::after{content:"";position:absolute;z-index:0;width:530px;height:450px;left:-15px;bottom:0;background:url(../img/left-footer.png) no-repeat center/contain}.footer::before{content:"";position:absolute;z-index:0;width:530px;height:450px;right:-15px;bottom:0;background:url(../img/right-footer.png) no-repeat center/contain}.footer__cloud{position:absolute;width:1000%;height:90px;bottom:0;left:-900%;background:url(../img/cloud-desc.png) repeat-x bottom/contain;-webkit-animation:500s infinite ease animCloud;animation:500s infinite ease animCloud}@media screen and (max-width:1024px){.footer__cloud{background:url(../img/cloud-tab.png) repeat-x bottom/contain}}@media screen and (max-width:550px){.footer__cloud{background:0 0;display:none}}.footer__container{max-width:660px;padding:0 15px;margin:0 auto}.footer__row{position:relative;z-index:3;display:-webkit-box;display:-ms-flexbox;display:flex;-webkit-box-orient:vertical;-webkit-box-direction:normal;-ms-flex-direction:column;flex-direction:column;-webkit-box-align:center;-ms-flex-align:center;align-items:center}.footer__title{font-family:SuisseIntl-SemiBold,sans-serif;text-align:center;color:#ededed;font-size:60px;line-height:77px;text-transform:uppercase;margin:0 0 15px 0}.footer__title span{font-family:WulkanDisplay,sans-serif;color:#ff267e}.footer__text{font-family:SuisseIntl-Medium,sans-serif;text-align:center;font-size:14px;line-height:28px;color:#e8e8e8;margin:0 0 30px 0}.footer__link{display:inline-block;font-family:SuisseIntl-Medium,sans-serif;color:#00003d;font-size:20px;line-height:24px;padding:19px 95px 17px;border-radius:4px;text-transform:uppercase;background:#05c489;-webkit-transition:background-color .3s ease;-o-transition:background-color .3s ease;transition:background-color .3s ease}.footer__link:hover{background:#05b37c}@-webkit-keyframes animCloud{0%{background-position:0 0}100%{background-position:100% 0}}@keyframes animCloud{0%{background-position:0 0}100%{background-position:100% 0}}@media screen and (max-width:1270px){.welcome__image{right:-180px;min-width:66%}.welcome__info{min-width:390px}}@media screen and (max-width:1150px){.welcome__image{right:-120px;min-width:66%}.welcome__title{font-size:64px;line-height:74px;max-width:273px;min-width:376px}.welcome__info{padding:227px 0 0 0}}@media screen and (max-width:1050px){.welcome__image{right:-54px;min-width:66%}}@media screen and (max-width:1024px){.welcome__title{font-size:60px;line-height:70px;margin:0 0 25px 0;-webkit-box-ordinal-group:2;-ms-flex-order:1;order:1;max-width:272px;min-width:272px}.welcome__link{-webkit-box-ordinal-group:3;-ms-flex-order:2;order:2;margin:0 0 30px 0;-ms-flex-item-align:start;align-self:flex-start}.welcome__subtitle{-webkit-box-ordinal-group:4;-ms-flex-order:3;order:3;font-size:30px;line-height:30px;margin:0 0 8px 0}.welcome__text{-webkit-box-ordinal-group:5;-ms-flex-order:4;order:4;margin:0}.welcome__image{min-width:62%;right:20px}.welcome__info{padding:276px 0 0 0;min-width:327px;display:-webkit-box;display:-ms-flexbox;display:flex;-webkit-box-orient:vertical;-webkit-box-direction:normal;-ms-flex-direction:column;flex-direction:column}}@media screen and (max-width:890px){.welcome__image{min-width:62%;right:30px}}@media screen and (max-width:790px){.welcome__info{left:20px;min-width:354px}.welcome__image{min-width:62%;right:80px}}@media screen and (max-width:700px){.welcome__row{-webkit-box-orient:vertical;-webkit-box-direction:reverse;-ms-flex-direction:column-reverse;flex-direction:column-reverse}.welcome__image{min-width:auto;right:23px}.welcome__info{padding:0;margin-top:-47px;z-index:3;left:0;min-width:auto;width:100%;max-width:100%}.welcome__title{position:static;padding:0 15px;max-width:515px;text-align:center;margin:0 auto 30px auto}.welcome__subtitle{text-align:center;font-size:32px;padding:0 15px;line-height:40px;margin:0 auto 10px auto}.welcome__link{font-size:20px;line-height:24px;margin:0 auto 25px auto;width:70%;padding:19px 15px 17px;text-align:center}.welcome__text{padding:0 15px;max-width:515px;text-align:center;margin:0 auto 0 auto}}@media screen and (max-width:550px){.welcome::before{content:"";position:absolute;width:100%;height:1100px;background:url(../img/blur-mob.png) no-repeat center/100% 100%;z-index:10}.welcome__image{right:0;position:relative;z-index:12}.welcome__info{margin-top:-30px;position:relative;z-index:12}.welcome__title{max-width:390px;font-size:42px;line-height:50px;margin:0 auto 7px auto}}@media screen and (max-width:430px){.welcome__link{width:calc(100% - 30px)}}@media screen and (max-width:380px) and (max-height:575px){.welcome__image{max-width:96%;margin:0 auto}}@media screen and (max-width:1180px){.prize{margin-top:0}.prize__list{left:0;display:grid;grid-template-columns:auto auto;justify-items:center;-webkit-box-pack:center;-ms-flex-pack:center;justify-content:center;-webkit-box-align:center;-ms-flex-align:center;align-items:center;-webkit-column-gap:120px;-moz-column-gap:120px;column-gap:120px;row-gap:60px}.prize__item{display:-webkit-box;display:-ms-flexbox;display:flex;-webkit-box-orient:vertical;-webkit-box-direction:normal;-ms-flex-direction:column;flex-direction:column;-webkit-box-pack:center;-ms-flex-pack:center;justify-content:center;-webkit-box-align:center;-ms-flex-align:center;align-items:center}.prize__item-number{margin-left:0}.prize__item:nth-child(1){grid-column:1/2;grid-row:1/2}.prize__item:nth-child(1) .prize__item-wrap::after{right:-40px}.prize__item:nth-child(2){grid-column:2/3;grid-row:1/2}.prize__item:nth-child(2) .prize__item-wrap::after{right:5px;width:73px;top:74px}.prize__item:nth-child(3){grid-column:1/3;grid-row:2/3}.prize__item:nth-child(3) .prize__item-wrap::after{top:53px;right:-27px;width:118px;height:110px}}@media screen and (max-width:1024px){.prize__title{font-size:40px;line-height:60px;margin:0 0 5px 0}}@media screen and (max-width:830px){.prize{padding:40px 0 60px}}@media screen and (max-width:790px){.prize__title{left:20px}}@media screen and (max-width:700px){.prize{padding:35px 0 60px}.prize__drop{width:calc(100% - 30px)}.prize__drop:after,.prize__drop:before{width:2px;height:12px;top:23px}.prize__drop:before{right:18px}.prize__drop:after{right:26px}.prize__drop-title{font-size:18px;line-height:18px;padding:20px 20px 18px}.prize__drop-title:after{right:45px}.prize__drop-txt{padding:20px}.prize__title{left:0;padding:0 15px;text-align:center;margin:0}.prize__list{-webkit-column-gap:0;-moz-column-gap:0;column-gap:0;row-gap:10px;grid-template-columns:100%}.prize__item:nth-child(1){grid-column:1/2;grid-row:1/2}.prize__item:nth-child(2){grid-column:1/2;grid-row:2/3}.prize__item:nth-child(3){grid-column:1/2;grid-row:3/4}}@media screen and (max-width:940px){.tableResults__title{font-size:36px;line-height:36px}.tableResults__head{-webkit-box-shadow:0 0 20px #ff267e,inset 0 0 20px #ff267e;box-shadow:0 0 20px #ff267e,inset 0 0 20px #ff267e;margin-bottom:10px}.tableResults__head-col{font-size:16px;line-height:16px;padding:14px 20px 12px 35px}.tableResults__head-col:nth-child(1){padding:14px 20px 12px 18px}.tableResults__head-col:nth-child(2){padding:14px 20px 12px 26px}.tableResults__body{font-size:16px;max-height:444px}.tableResults .place1 .tableResults__body-col:nth-child(1):after,.tableResults .place2 .tableResults__body-col:nth-child(1):after,.tableResults .place3 .tableResults__body-col:nth-child(1):after{width:26px;height:20px;margin:-3px 0 0 10px}}@media screen and (max-width:700px){.tableResults__drop{width:calc(100% - 30px)}.tableResults__drop:after,.tableResults__drop:before{width:2px;height:12px;top:23px}.tableResults__drop:before{right:18px}.tableResults__drop:after{right:26px}.tableResults__drop-title{font-size:18px;line-height:18px;padding:20px 20px 18px}.tableResults__drop-title:after{right:45px}.tableResults__drop-txt{padding:20px}.tableResults__head{margin-right:0;margin-bottom:5px;-webkit-box-shadow:0 0 10px #ff267e,inset 0 0 10px #ff267e;box-shadow:0 0 10px #ff267e,inset 0 0 10px #ff267e}.tableResults__head-col{font-size:12px;line-height:12px}.tableResults__head-col:nth-child(1){padding:11px 20px 9px 15px;width:20%}.tableResults__head-col:nth-child(2){padding:11px 20px 9px 10px;width:28%}.tableResults__head-col:nth-child(3){padding:11px 20px 9px 7px;width:22%}.tableResults__head-col:nth-child(4){padding:11px 20px 9px 10px;width:30%}.tableResults__body{font-size:11px;padding-right:0}.tableResults__body::-webkit-scrollbar{background:#33083c}.tableResults__body-col{font-family:SuisseIntl-Bold,sans-serif;margin-right:2px;padding:12px 5px 8px 10px}.tableResults__body-col:nth-child(1){width:20%;padding:12px 5px 8px 20px}.tableResults__body-col:nth-child(2){width:28%;padding:12px 5px 8px 10px}.tableResults__body-col:nth-child(3){width:22%}.tableResults__body-col:nth-child(4){width:30%}.tableResults__row{margin-bottom:2px}.tableResults .place1 .tableResults__body-col:nth-child(1):after,.tableResults .place2 .tableResults__body-col:nth-child(1):after,.tableResults .place3 .tableResults__body-col:nth-child(1):after{width:18px;height:14px;margin:-4px 0 0 6px}}@media screen and (max-width:374px){.tableResults__drop:after,.tableResults__drop:before{top:21px}.tableResults__drop-title{font-size:16px;line-height:16px;padding:18px 15px 16px}.tableResults__title{font-size:30px;line-height:30px}.tableResults__wrap{margin-top:20px}}@media screen and (max-width:1230px){.footer{padding:410px 0 70px;background:url(../img/bg-footer-tab.jpg) no-repeat center/100% 100%}.footer::after,.footer::before{content:none;background:0 0}.footer::before{content:"";left:50%;right:auto;bottom:auto;width:715px;height:372px;top:20px;z-index:1;-webkit-transform:translateX(-50%);-ms-transform:translateX(-50%);transform:translateX(-50%);background:url(../img/footer-center.png) no-repeat center/contain}.footer::after{content:"";left:50%;right:auto;bottom:auto;width:100%;height:100%;top:-170px;z-index:0;-webkit-transform:translateX(-50%);-ms-transform:translateX(-50%);transform:translateX(-50%);background:url(../img/touch-footer.svg) no-repeat center/contain}}@media screen and (max-width:1024px){.footer__title{font-size:50px;line-height:60px;margin:0 0 10px 0}}@media screen and (max-width:720px){.footer{padding:360px 0 70px}.footer::before{width:100%;top:-10px}}@media screen and (max-width:550px){.footer{padding:307px 0 30px;background:url(../img/bg-footer-mob.jpg) no-repeat center/100% 100%}.footer::before{width:100%;top:-30px}.footer::after{content:"";left:50%;right:auto;bottom:auto;width:100%;height:320px;top:10px;z-index:0;-webkit-transform:translateX(-50%);-ms-transform:translateX(-50%);transform:translateX(-50%);background:url(../img/touch-mob.png) no-repeat center/contain}.footer__title{max-width:300px;font-size:42px;line-height:50px;-webkit-box-ordinal-group:2;-ms-flex-order:1;order:1}.footer__link{-webkit-box-ordinal-group:3;-ms-flex-order:2;order:2;width:100%;padding:19px 15px 17px;text-align:center;margin:0 0 25px 0}.footer__text{-webkit-box-ordinal-group:4;-ms-flex-order:3;order:3;margin:0}}@media screen and (max-width:466px){.footer{padding:253px 0 30px}.footer::before{top:-60px}.footer::after{top:-20px}}@media screen and (max-width:406px){.footer{padding:215px 0 30px}.footer::before{top:-80px}.footer::after{top:-40px}}@media screen and (max-width:365px){.footer{padding:193px 0 30px}.footer::before{top:-90px}.footer::after{top:-50px}}

diff --git a/front/sass/media.sass b/front/sass/media.sass
@@ -142,6 +142,12 @@
     &__link
       width: calc(100% - 30px)
 
+@media screen and (max-width: 380px) and (max-height: 575px)
+  .welcome
+    &__image
+      max-width: 96%
+      margin: 0 auto
+
 
 //PRIZE
 
@@ -426,6 +432,7 @@
       transform: translateX(-50%)
       background: url("../img/touch-mob.png") no-repeat center/contain
     &__title
+      max-width: 300px
       font-size: 42px
       line-height: 50px
       order: 1
